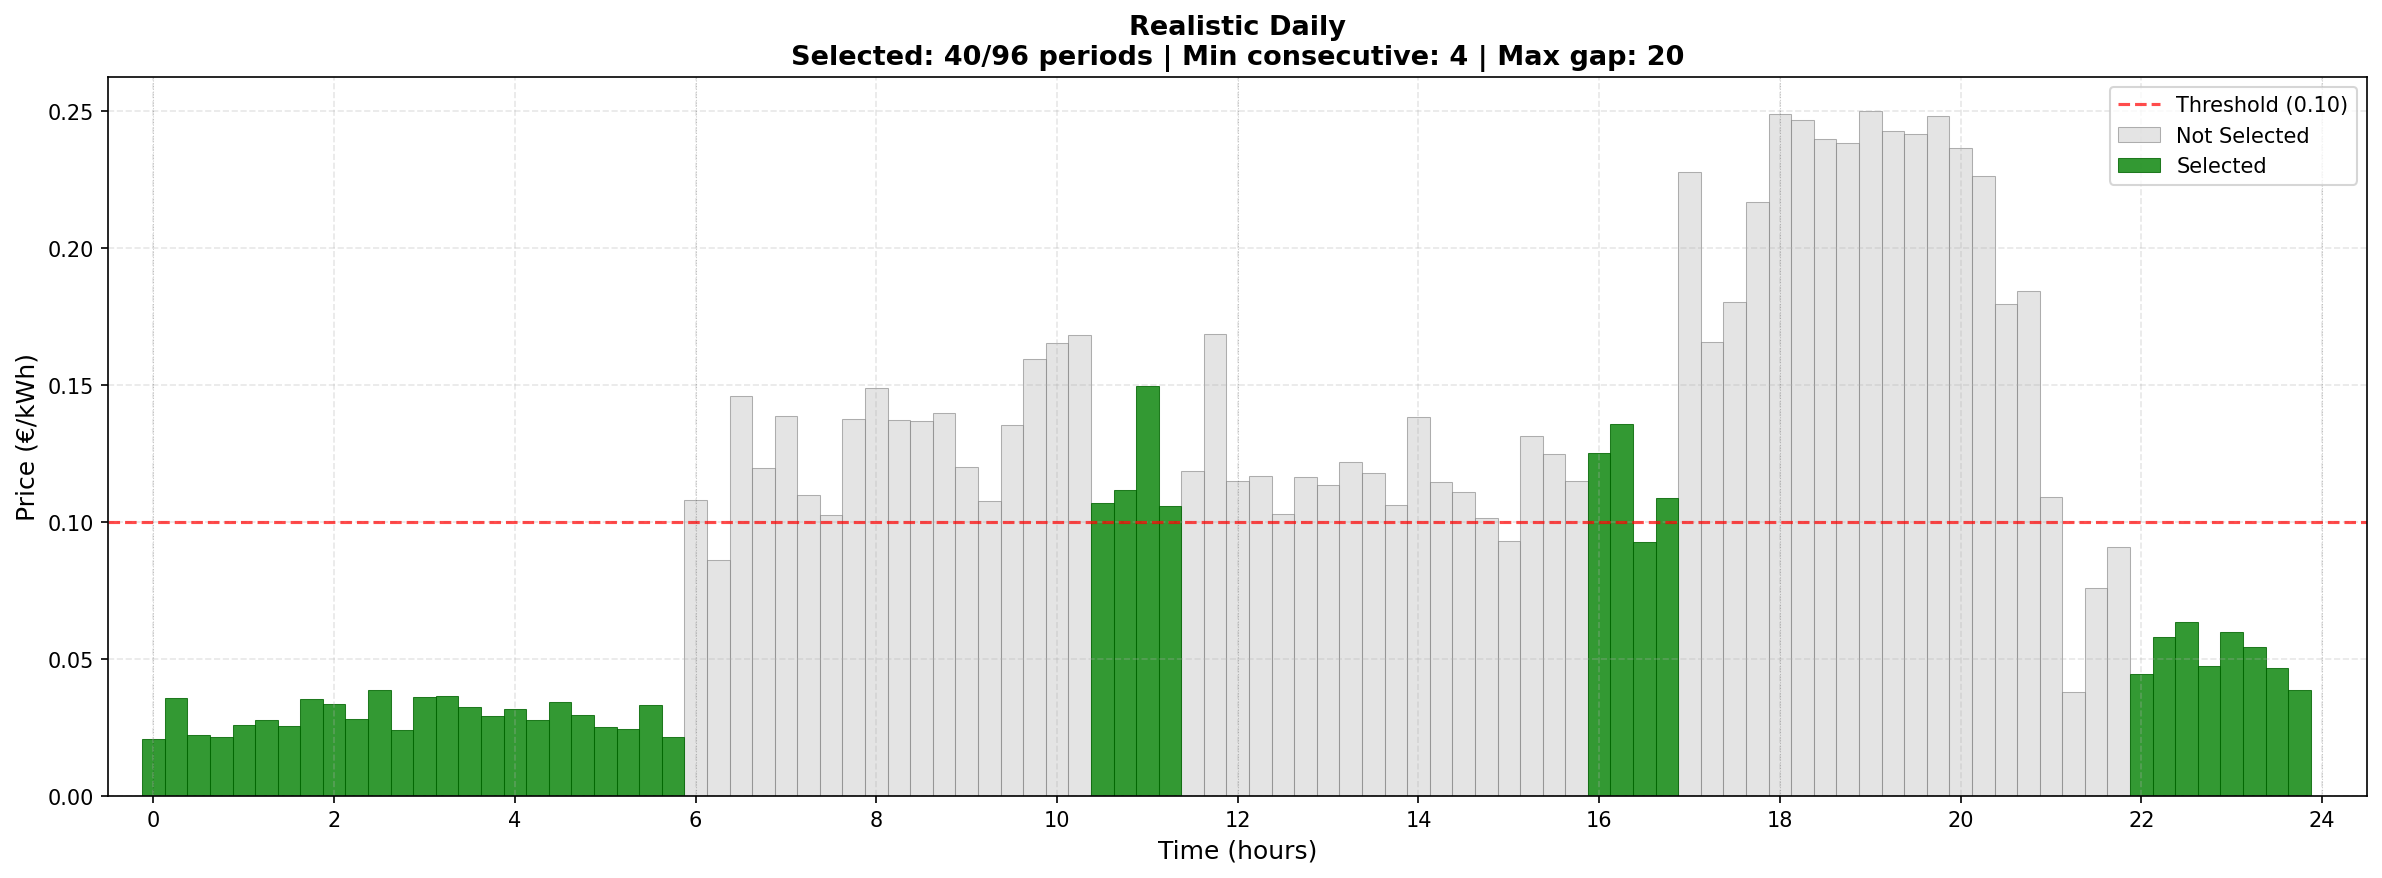
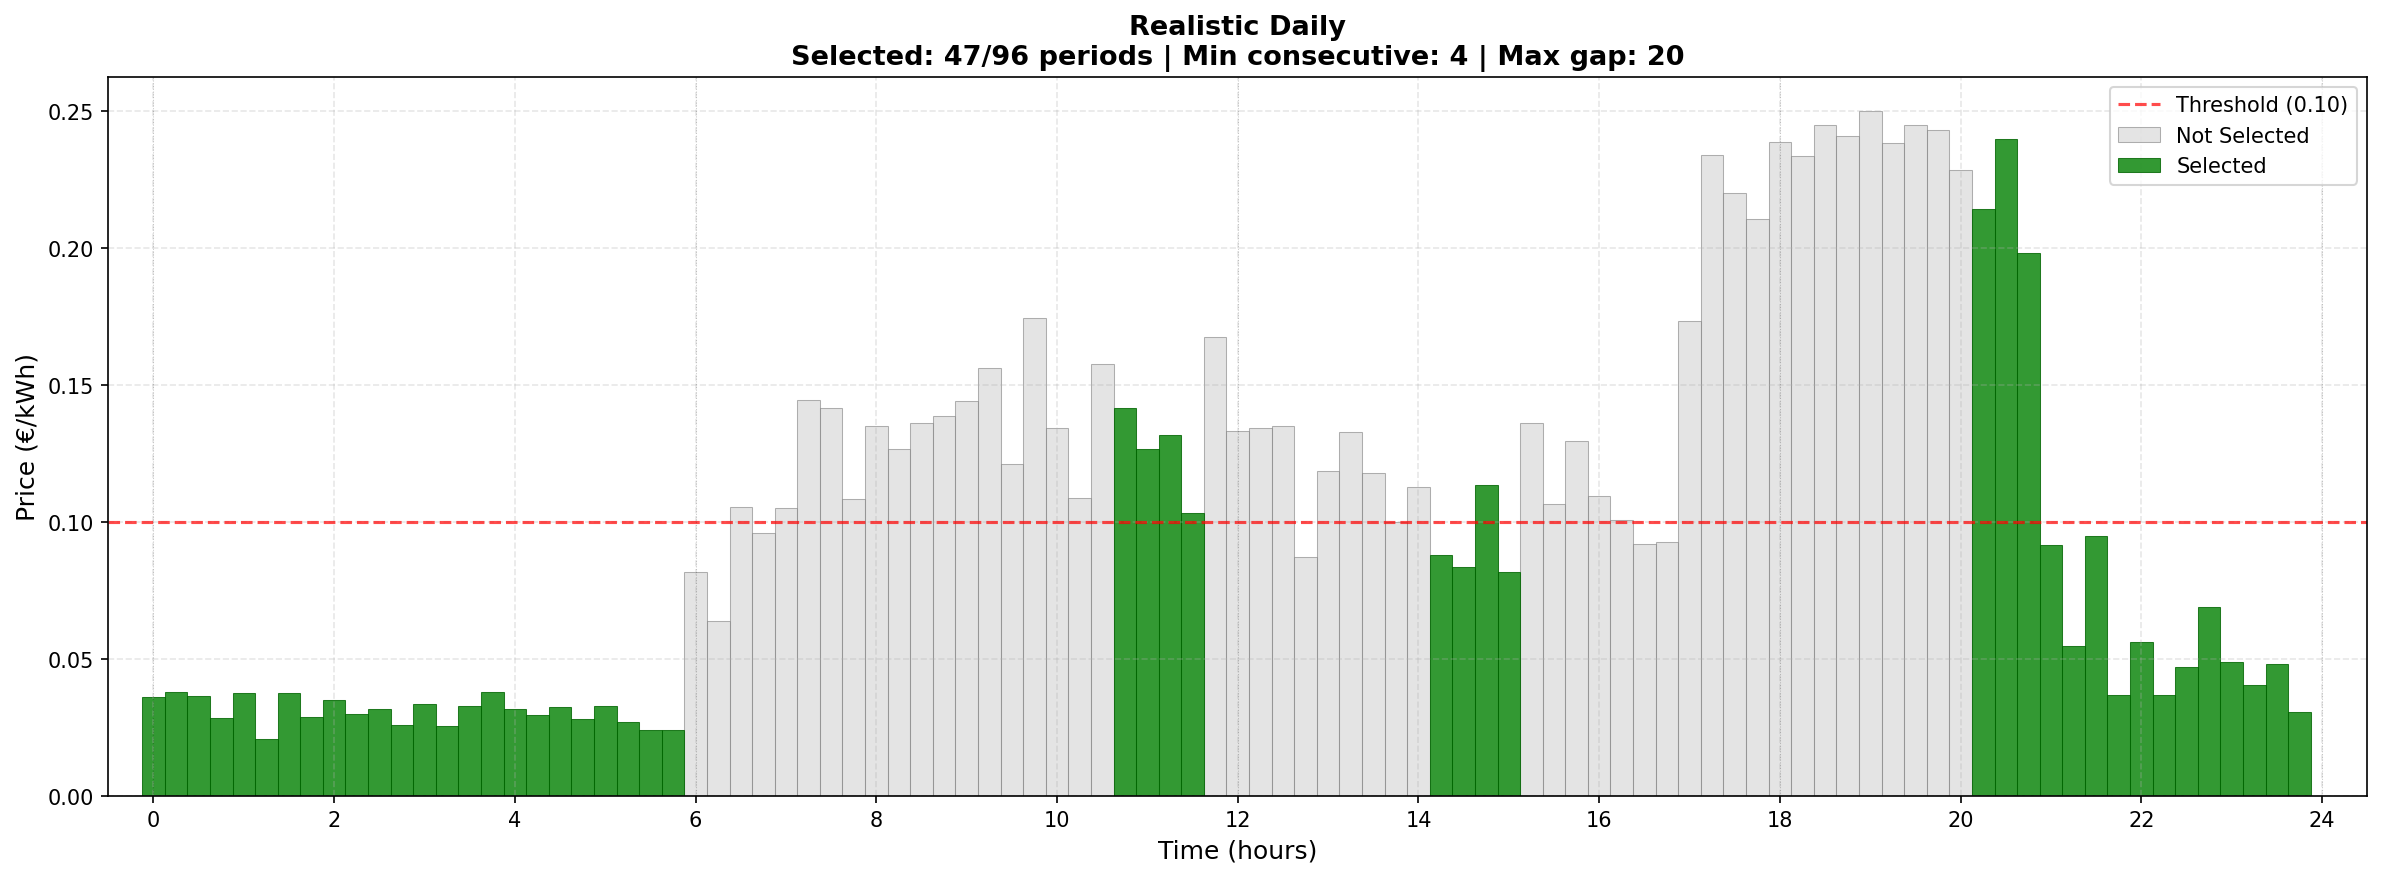
Use adaptive chunk sizes

diff --git a/src/spot_planner/main.py b/src/spot_planner/main.py
@@ -679,11 +679,11 @@ def _find_best_chunk_selection_with_lookahead(
                 boundary = _calculate_chunk_boundary_state(selection, chunk_len)
                 # Check if it creates a complete block at the end
                 if boundary.trailing_selected_count >= min_consecutive_periods:
-                    chunk_cost: Decimal = sum(
+                    complete_block_cost: Decimal = sum(
                         (chunk_prices[i] for i in selection), Decimal(0)
                     )
                     # No forced cost since block is complete
-                    candidates.append((selection, chunk_cost))
+                    candidates.append((selection, complete_block_cost))
                     break
 
     # Strategy 3: Try ending with unselected items (gap at end)
@@ -771,6 +771,56 @@ def _find_best_chunk_selection_with_lookahead(
     return best_selection
 
 
+def _calculate_optimal_chunk_size(
+    total_items: int,
+    min_consecutive_periods: int,
+    max_gap_between_periods: int,
+) -> int:
+    """
+    Calculate optimal chunk size based on sequence length and constraints.
+
+    Smaller chunks = faster but more boundary issues
+    Larger chunks = slower but fewer boundary issues
+
+    Strategy:
+    - Very small sequences (<=48): Use medium chunks (20) for good balance
+    - Small sequences (49-96): Use medium chunks (18-20)
+    - Medium sequences (97-192): Use smaller chunks (15-18) for performance
+    - Large sequences (>192): Use smallest chunks (12-15) for speed
+
+    Also considers constraints:
+    - Large max_gap allows smaller chunks (boundaries less critical)
+    - Large min_consecutive needs larger chunks (boundaries more critical)
+    """
+    # Base chunk size based on sequence length
+    if total_items <= 48:
+        base_size = 20
+    elif total_items <= 96:
+        base_size = 18
+    elif total_items <= 192:
+        base_size = 15
+    else:
+        base_size = 12
+
+    # Adjust based on constraints
+    # If max_gap is large, boundaries are less critical - can use smaller chunks
+    if max_gap_between_periods >= 15:
+        base_size = max(12, base_size - 2)
+    elif max_gap_between_periods >= 10:
+        base_size = max(12, base_size - 1)
+
+    # If min_consecutive is large, boundaries are more critical - need larger chunks
+    if min_consecutive_periods >= 6:
+        base_size = min(24, base_size + 2)
+    elif min_consecutive_periods >= 4:
+        base_size = min(24, base_size + 1)
+
+    # Ensure chunk size is reasonable (not too small, not too large)
+    # Too small: < 10 items per chunk becomes inefficient
+    # Too large: > 24 items per chunk becomes slow
+    return max(10, min(24, base_size))
+
+
 def _get_cheapest_periods_extended(
     prices: Sequence[Decimal],
     low_price_threshold: Decimal,
@@ -800,12 +850,17 @@ def _get_cheapest_periods_extended(
     - For each chunk, multiple selection strategies are evaluated
     - The cost of forced selections in the next chunk is considered
     - The strategy with lowest combined cost is chosen
+
+    Chunk size is adaptively determined based on sequence length and constraints
+    to optimize the performance/optimality trade-off.
     """
     n = len(prices)
 
-    # Configuration constants
-    # 20 items per chunk is fast and reliable for brute-force
-    MAX_CHUNK_SIZE = 20
+    # Calculate optimal chunk size adaptively
+    MAX_CHUNK_SIZE = _calculate_optimal_chunk_size(
+        n, min_consecutive_periods, max_gap_between_periods
+    )
+
     # 4 items per average group gives good rough planning resolution
     AVERAGE_GROUP_SIZE = 4
 
